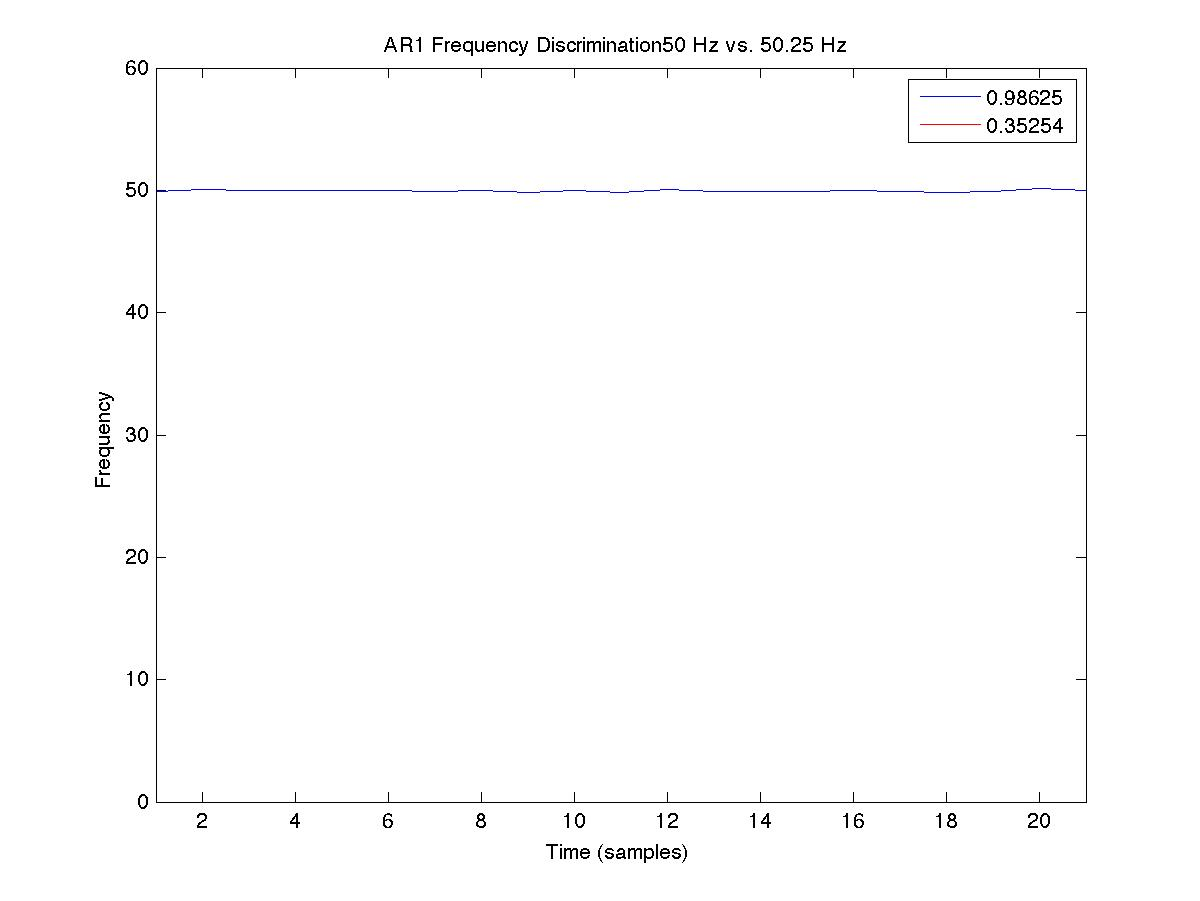
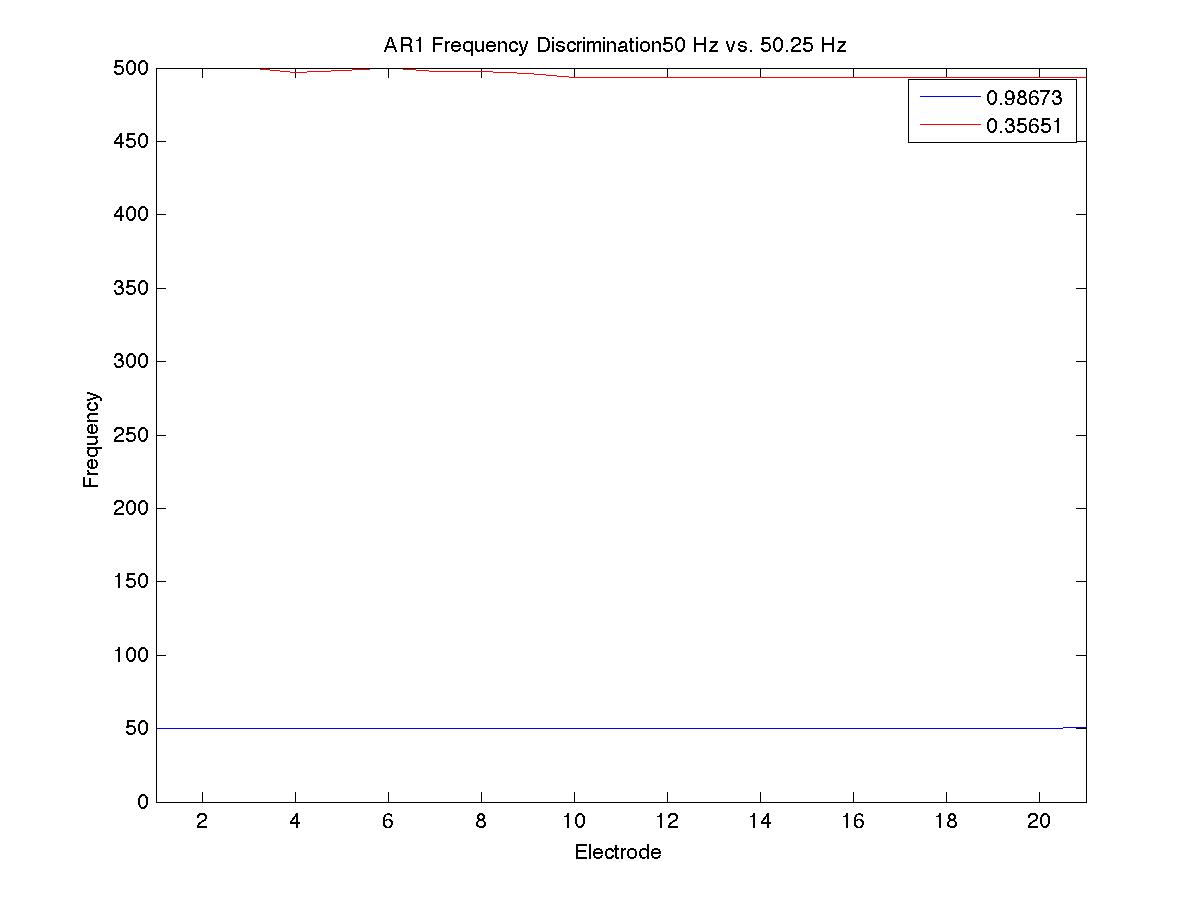
New Figures

diff --git a/twoFreqDis.m b/twoFreqDis.m
@@ -8,7 +8,7 @@ x = -1:0.1:1; %21 electrodes
 y = 0;
 
 baseFreq = 50; %Hz
-freqVec = [baseFreq+.1, baseFreq+0.25, baseFreq+0.5, baseFreq+1, baseFreq+2, baseFreq+5, baseFreq+10, baseFreq+20];
+freqVec = [baseFreq+.1, baseFreq+0.25, baseFreq+0.5, baseFreq+1, baseFreq+2, baseFreq+5, baseFreq+10];
 
 % define constants for wavelet
 freq = 40:0.05:80;
@@ -76,7 +76,7 @@ for j = 1:length(freqVec)
 %     better_phase = wvlt_phase.*max_amp;
 %     imagesc(1:21, freq, squeeze(better_phase(:,2500,:)))
 %     colorbar
-
+% 
 %     % ar1
 %     %define constants
 %     win = numel(x)*10; % twice the number of electrodes
@@ -127,13 +127,13 @@ for j = 1:length(freqVec)
 %     plot(unwrap(eigFreq1))
 %     hold on
 %     plot(unwrap(eigFreq3), 'r')
-%     title(['AR1 Frequency Discrimination', num2str(baseFreq), ' Hz vs. ', num2str(freqVec(j)), ' Hz'])
-%     xlabel('Time (samples)')
+%     title(['AR1 Frequency Discrimination ', num2str(baseFreq), ' Hz vs. ', num2str(freqVec(j)), ' Hz'])
+%     xlabel('Electrode')
 %     ylabel('Frequency')
 %     legend(num2str(av_ab_eig_val1), num2str(av_ab_eig_val3))
 %     xlim([1 numel(x)])
 %     
[1 lines of base64/hex data omitted]
-
+%     saveas(gca, ['/Users/adeetiaggarwal/Documents/ar1MouseECoG/images/AR1FreqDis', num2str(freqVec(j)), '.jpg'], 'jpg')
+% 
 
 end
